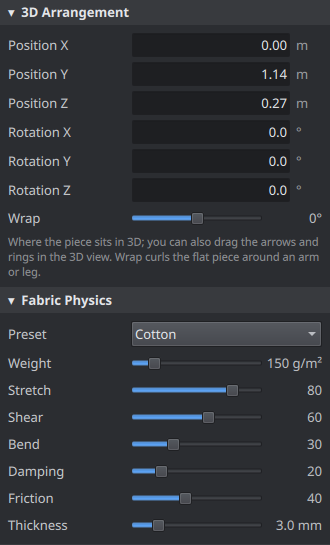
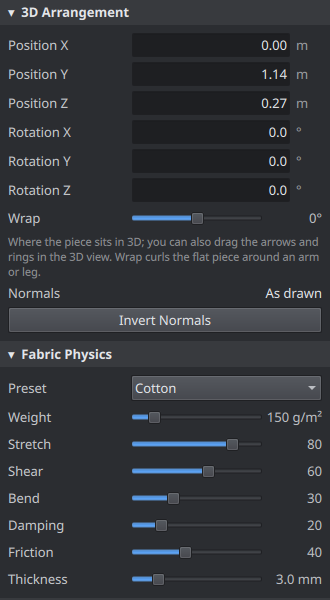
Added in ability to view Normals and Invert Normals if not pointing correctly.

Changed region(s): [[0.0, 0.0624, 1.0, 0.9982], [0.0303, 0.0, 0.3939, 0.0312], [0.8182, 0.9358, 0.8788, 0.9982]]

diff --git a/src/Seamstress.App/Viewport3D.qml b/src/Seamstress.App/Viewport3D.qml
@@ -22,6 +22,8 @@ Item {
     property bool pinchMode: false
     property bool showAvatar: true
     property bool showThreads: true
+    // Normal direction: each face's front (the side its normal points to) blue, its back red.
+    property bool showNormals: false
     property string avatarSource: ""
     property string threadSource: ""
 
@@ -98,6 +100,7 @@ Item {
         if (App.startupView.indexOf("wire") >= 0) wireframe = true
         if (App.startupView.indexOf("pinch") >= 0) pinchMode = true
         if (App.startupView.indexOf("ortho") >= 0) orthographic = true
+        if (App.startupView.indexOf("normals") >= 0) showNormals = true
         if (App.startupView.indexOf("ruler") >= 0) {
             // For documentation screenshots: across the shoulders of the mannequin.
             rulerA = Qt.vector3d(-0.19, 1.42, 0.02)
@@ -178,7 +181,9 @@ Item {
 
                 source: meshUrl
                 pickable: true
-                materials: PrincipledMaterial {
+                materials: root.showNormals ? [frontFaces] : [fabric]
+                PrincipledMaterial {
+                    id: fabric
                     baseColor: pieceItem.checker ? "#ffffff" : (pieceItem.tex !== "" ? "#ffffff" : pieceItem.tint)
                     baseColorMap: pieceItem.textured ? fabricTexture : null
                     roughness: pieceItem.rough
@@ -187,6 +192,25 @@ Item {
                     alphaMode: pieceItem.alpha < 0.999 ? PrincipledMaterial.Blend : PrincipledMaterial.Opaque
                     cullMode: Material.NoCulling
                     emissiveFactor: pieceItem.sel ? Qt.vector3d(0.16, 0.12, 0.02) : Qt.vector3d(0, 0, 0)
+                }
+                // Normal direction: this model draws only the front of each face, the one inside only the back.
+                // A little glow keeps the shape readable where the light falls on the other side.
+                PrincipledMaterial {
+                    id: frontFaces
+                    baseColor: "#3f78e0"
+                    roughness: 0.8
+                    cullMode: Material.BackFaceCulling
+                    emissiveFactor: pieceItem.sel ? Qt.vector3d(0.16, 0.28, 0.55) : Qt.vector3d(0.08, 0.14, 0.3)
+                }
+                Model {
+                    visible: root.showNormals
+                    source: pieceItem.meshUrl
+                    materials: PrincipledMaterial {
+                        baseColor: "#e04848"
+                        roughness: 0.8
+                        cullMode: Material.FrontFaceCulling
+                        emissiveFactor: pieceItem.sel ? Qt.vector3d(0.6, 0.16, 0.16) : Qt.vector3d(0.32, 0.08, 0.08)
+                    }
                 }
                 Texture {
                     id: fabricTexture
@@ -478,10 +502,21 @@ Item {
     }
 
     Label {
+        id: viewTitle
         anchors { left: parent.left; top: parent.top; margins: 8 }
         text: "3D Garment"
         font.bold: true
         opacity: 0.75
+    }
+    // Key for the normal direction colours.
+    RowLayout {
+        visible: root.showNormals
+        anchors { left: parent.left; top: viewTitle.bottom; leftMargin: 8; topMargin: 6 }
+        spacing: 6
+        Rectangle { implicitWidth: 12; implicitHeight: 12; radius: 2; color: "#3f78e0" }
+        Label { text: "Front (normal side)"; font.pixelSize: 11; opacity: 0.85 }
+        Rectangle { implicitWidth: 12; implicitHeight: 12; radius: 2; color: "#e04848"; Layout.leftMargin: 8 }
+        Label { text: "Back"; font.pixelSize: 11; opacity: 0.85 }
     }
 
     RowLayout {

diff --git a/src/Seamstress.App/Main.qml b/src/Seamstress.App/Main.qml
@@ -176,6 +176,8 @@ ApplicationWindow {
         "view.back": () => viewport.setView(180, -5),
         "view.checker": () => viewport.displayMode = viewport.displayMode === "checker" ? "shaded" : "checker",
         "view.wireframe": () => viewport.wireframe = !viewport.wireframe,
+        "view.normals": () => viewport.showNormals = !viewport.showNormals,
+        "edit.invertNormals": () => App.invertNormals(),
         "view.pinch": () => viewport.pinchMode = !viewport.pinchMode,
         "view.handles": () => viewport.showGizmo = !viewport.showGizmo,
         "view.avatar": () => viewport.showAvatar = !viewport.showAvatar,
@@ -316,6 +318,7 @@ ApplicationWindow {
                 MenuSeparator {}
                 KeyMenuItem { text: "3D: Checker (Texel Density)"; command: "view.checker"; checkable: true; checked: viewport.displayMode === "checker"; onTriggered: viewport.displayMode = checked ? "checker" : "shaded" }
                 KeyMenuItem { text: "3D: Wireframe (Topology)"; command: "view.wireframe"; checkable: true; checked: viewport.wireframe; onTriggered: viewport.wireframe = checked }
+                KeyMenuItem { text: "3D: Normal Direction"; command: "view.normals"; checkable: true; checked: viewport.showNormals; onTriggered: viewport.showNormals = checked }
                 KeyMenuItem { text: "3D: Pinch Cloth"; command: "view.pinch"; checkable: true; checked: viewport.pinchMode; onTriggered: viewport.pinchMode = checked }
                 KeyMenuItem { text: "3D: Show Handles"; command: "view.handles"; checkable: true; checked: viewport.showGizmo; onTriggered: viewport.showGizmo = checked }
                 Menu {

diff --git a/src/Seamstress.App/PropertiesPanel.qml b/src/Seamstress.App/PropertiesPanel.qml
@@ -275,6 +275,21 @@ Pane {
                     font.pixelSize: 11
                     text: "Where the piece sits in 3D; you can also drag the arrows and rings in the 3D view. Wrap curls the flat piece around an arm or leg."
                 }
+                InfoRow {
+                    readonly property int flipped: root.sel.piece ? root.sel.piece.flippedNormals : 0
+                    readonly property int count: root.sel.piece ? root.sel.piece.count : 0
+                    label: "Normals"
+                    value: flipped === 0 ? "As drawn" : flipped === count ? (count === 1 ? "Inverted" : "All inverted")
+                                                                         : flipped + " of " + count + " inverted"
+                }
+                Button {
+                    Layout.fillWidth: true
+                    text: "Invert Normals"
+                    onClicked: App.invertNormals()
+                    ToolTip.visible: hovered
+                    ToolTip.delay: 500
+                    ToolTip.text: "Turn the faces of the selected pieces to point the other way. Use View ▸ 3D: Normal Direction to see which way they face: blue is the front, red the back."
+                }
             }
 
             // ---- Fabric --------------------------------------------------------------

diff --git a/src/Seamstress.App/SmokeTest.qml b/src/Seamstress.App/SmokeTest.qml
@@ -189,6 +189,16 @@ QtObject {
         check("context menu opens", contextMenu.visible)
         contextMenu.close()
 
+        // Normals: shown in the 3D view, inverted from Properties as one undo step.
+        viewport.showNormals = true
+        check("normal direction shown", viewport.showNormals)
+        viewport.showNormals = false
+        check("normals start as drawn", selection().piece.flippedNormals === 0)
+        App.invertNormals()
+        check("invert normals", selection().piece.flippedNormals === selection().piece.count && App.undoText === "Undo Invert normals")
+        App.undo()
+        check("invert normals undone", selection().piece.flippedNormals === 0)
+
         // Send to MakeHuman suggests the garment's name and says where the asset would go (nothing is written here).
         check("send dialog suggests the garment name", App.activeGarmentName() !== "")
         const info = JSON.parse(App.makeHumanAssetInfo("Summer Skirt/v2"))

diff --git a/src/Seamstress.App/EditMenu.qml b/src/Seamstress.App/EditMenu.qml
@@ -15,6 +15,7 @@ Menu {
     KeyMenuItem { text: "Rotate 90° Left"; command: "edit.rotateLeft"; onTriggered: App.rotate(90) }
     KeyMenuItem { text: "Rotate 90° Right"; command: "edit.rotateRight"; onTriggered: App.rotate(-90) }
     KeyMenuItem { text: "Straighten Curved Edges"; command: "edit.straighten"; onTriggered: App.straightenEdges() }
+    KeyMenuItem { text: "Invert Normals"; command: "edit.invertNormals"; onTriggered: App.invertNormals() }
     MenuSeparator {}
     KeyMenuItem { text: "Group Selected Pieces"; command: "edit.group"; onTriggered: App.groupSelection() }
     KeyMenuItem { text: "Reverse Seam Direction"; command: "edit.reverseSeam"; onTriggered: App.reverseSeam() }

diff --git a/tests/Seamstress.Tests/ExportTests.cs b/tests/Seamstress.Tests/ExportTests.cs
@@ -197,6 +197,48 @@ public class ExportTests : IDisposable
     }
 
     [Fact]
+    public void InvertedNormalsFaceTheOtherWay()
+    {
+        var piece = _ws.Document.Garments[0].Pieces[0];
+        var mesh = _ws.MeshFor(_ws.Document.Garments[0]).Find(piece.Id)!;
+        var drape = piece.Drape;
+        var before = Scene(weld: false).Meshes[0];
+        var part = before.Parts.First(p => p.Name == piece.Name);
+
+        _ws.SelectPiece(piece.Id);
+        _ws.InvertNormals();
+        piece = _ws.Document.Garments[0].Pieces[0];
+        Assert.True(piece.FlipNormals);
+        Assert.Same(drape, piece.Drape);                                    // the draped shape is kept
+        Assert.Same(mesh, _ws.MeshFor(_ws.Document.Garments[0]).Find(piece.Id));   // the simulation mesh is untouched
+
+        // Every exported triangle and face of that piece is wound the other way; other pieces are unchanged.
+        var after = Scene(weld: false).Meshes[0];
+        var flipped = after.Parts.First(p => p.Name == piece.Name);
+        for (int t = 0; t < part.PositionIndices.Length; t += 3)
+        {
+            Assert.Equal(part.PositionIndices[t], flipped.PositionIndices[t]);
+            Assert.Equal(part.PositionIndices[t + 1], flipped.PositionIndices[t + 2]);
+            Assert.Equal(part.PositionIndices[t + 2], flipped.PositionIndices[t + 1]);
+        }
+        var lastFace = part.FacePositionIndices[^3..];
+        Assert.Equal(new[] { lastFace[0], lastFace[2], lastFace[1] }, flipped.FacePositionIndices[^3..]);
+        Assert.Equal(before.Parts[1].PositionIndices, after.Parts[1].PositionIndices);
+        // So the vertex normals of the piece point the opposite way.
+        int v = part.PositionIndices[0];
+        Assert.True(Vector3.Dot(before.Normals[v], after.Normals[v]) < -0.99f);
+
+        // Saved with the project, one undo step, and inverting again restores the original.
+        var reloaded = GarmentFile.Deserialize(GarmentFile.Serialize(_ws.Document));
+        Assert.True(reloaded.Garments[0].Pieces[0].FlipNormals);
+        Assert.False(reloaded.Garments[0].Pieces[1].FlipNormals);
+        Assert.Equal("Invert normals", _ws.History.UndoName);
+        _ws.History.Undo();
+        Assert.False(_ws.Document.Garments[0].Pieces[0].FlipNormals);
+        Assert.Equal(part.PositionIndices, Scene(weld: false).Meshes[0].Parts.First(p => p.Name == piece.Name).PositionIndices);
+    }
+
+    [Fact]
     public void MakeHumanAssetReproducesTheGarment()
     {
         var settings = new AppSettings();

diff --git a/src/Seamstress.Core/Geometry/GarmentMesh.cs b/src/Seamstress.Core/Geometry/GarmentMesh.cs
@@ -36,17 +36,38 @@ public sealed class PieceMesh
     public int FaceCount => Polygons?.Length ?? TriangleCount;
     public int QuadCount => Polygons?.Count(p => p.Length == 4) ?? 0;
 
-    /// <summary>Every face of the exported topology as its vertex indices, counter-clockwise.</summary>
-    public IEnumerable<int[]> Faces()
+    /// <summary>
+    /// Every face of the exported topology as its vertex indices: counter-clockwise, or clockwise when the piece's
+    /// normals are flipped.
+    /// </summary>
+    public IEnumerable<int[]> Faces(bool flipped = false)
     {
         if (Polygons != null)
         {
             foreach (var polygon in Polygons)
-                yield return polygon;
+                yield return flipped ? polygon.Reverse().ToArray() : polygon;
             yield break;
         }
         for (int t = 0; t < Triangles.Length; t += 3)
-            yield return new[] { Triangles[t], Triangles[t + 1], Triangles[t + 2] };
+            yield return flipped ? new[] { Triangles[t], Triangles[t + 2], Triangles[t + 1] } : new[] { Triangles[t], Triangles[t + 1], Triangles[t + 2] };
+    }
+
+    /// <summary>
+    /// The triangles as they are shown and exported. The simulation always uses <see cref="Triangles"/>; a piece
+    /// with flipped normals is drawn with each triangle wound the other way.
+    /// </summary>
+    public int[] ShownTriangles(bool flipped)
+    {
+        if (!flipped)
+            return Triangles;
+        var result = new int[Triangles.Length];
+        for (int t = 0; t < Triangles.Length; t += 3)
+        {
+            result[t] = Triangles[t];
+            result[t + 1] = Triangles[t + 2];
+            result[t + 2] = Triangles[t + 1];
+        }
+        return result;
     }
 }
 

diff --git a/src/Seamstress.App/ViewportSync.cs b/src/Seamstress.App/ViewportSync.cs
@@ -186,7 +186,7 @@ internal sealed class ViewportSync : IDisposable
             {
                 var piece = garment.FindPiece(mesh.Pieces[i].PieceId)!;
                 positions[i] = Mesher.CurrentPositions(piece, mesh.Pieces[i]);
-                normals[i] = Mesher.ComputeNormals(positions[i], mesh.Pieces[i].Triangles);
+                normals[i] = Mesher.ComputeNormals(positions[i], mesh.Pieces[i].ShownTriangles(piece.FlipNormals));
             }
             // Shade across closed seams as one surface; draw a thread for stitches that are still apart.
             foreach (var stitch in mesh.Stitches)
@@ -256,13 +256,14 @@ internal sealed class ViewportSync : IDisposable
                 hash.Add(piece.Uv.Rotation);
                 hash.Add(layout.UnitsPerCm);
                 hash.Add(layout.Min);
+                hash.Add(piece.FlipNormals);
                 bool usesDrape = piece.Drape != null && piece.DrapeKey == pieceMesh.Key;
                 int signature = hash.ToHashCode();
                 if (entry.Url.Length == 0 || entry.Key != pieceMesh.Key || entry.Hash != signature
                     || !ReferenceEquals(entry.Drape, usesDrape ? piece.Drape : null))
                 {
                     string file = NextFile("p" + piece.Id, entry.Files);
-                    QtMesh.WriteTriangles(file, positions[i], normals[i], layout.Map(piece, pieceMesh), pieceMesh.Triangles);
+                    QtMesh.WriteTriangles(file, positions[i], normals[i], layout.Map(piece, pieceMesh), pieceMesh.ShownTriangles(piece.FlipNormals));
                     entry.Url = ToUrl(file);
                     entry.Key = pieceMesh.Key;
                     entry.Hash = signature;

diff --git a/src/Seamstress.App/AppController.Json.cs b/src/Seamstress.App/AppController.Json.cs
@@ -113,6 +113,8 @@ public partial class AppController
             sb.Append(",\"posX\":").Append(N(piece.Placement.Position.X)).Append(",\"posY\":").Append(N(piece.Placement.Position.Y)).Append(",\"posZ\":").Append(N(piece.Placement.Position.Z));
             sb.Append(",\"rotX\":").Append(N(piece.Placement.Rotation.X)).Append(",\"rotY\":").Append(N(piece.Placement.Rotation.Y)).Append(",\"rotZ\":").Append(N(piece.Placement.Rotation.Z));
             sb.Append(",\"curvature\":").Append(N(piece.Placement.Curvature));
+            // How many of the selected pieces have their normals inverted.
+            sb.Append(",\"flippedNormals\":").Append(pieces.Count(p => p.FlipNormals)).Append(",\"count\":").Append(pieces.Count);
             sb.Append(",\"particleDistance\":").Append(N(piece.ParticleDistance ?? 0));
             sb.Append(",\"area\":").Append(N(pieces.Sum(Outline.Area)));
             sb.Append(",\"faces\":").Append(pieces.Sum(p => _workspace.MeshFor(doc.GarmentOfPiece(p.Id)!).Find(p.Id)?.FaceCount ?? 0));
@@ -260,5 +262,8 @@ public partial class AppController
             else if (doc.Garments.FirstOrDefault(g => g.Name == options.SelectPiece) is { } garment)
                 _workspace.SelectLayer(garment.Id);
         }
+        // For documentation screenshots: "--view invert" turns the selected pieces' normals the other way.
+        if (options.View.Contains("invert"))
+            _workspace.InvertNormals();
     }
 }

diff --git a/src/Seamstress.Core/IO/ExportScene.cs b/src/Seamstress.Core/IO/ExportScene.cs
@@ -153,18 +153,19 @@ public sealed class ExportScene
             var piece = garment.FindPiece(pieceMesh.PieceId)!;
             if (!piece.Visible && !options.IncludeHidden)
                 continue;
-            var positionIndices = new int[pieceMesh.Triangles.Length];
-            var uvIndices = new int[pieceMesh.Triangles.Length];
+            var triangles = pieceMesh.ShownTriangles(piece.FlipNormals);
+            var positionIndices = new int[triangles.Length];
+            var uvIndices = new int[triangles.Length];
             for (int k = 0; k < positionIndices.Length; k++)
             {
-                uvIndices[k] = offsets[i] + pieceMesh.Triangles[k];
+                uvIndices[k] = offsets[i] + triangles[k];
                 positionIndices[k] = remap[uvIndices[k]];
             }
             allTriangles.AddRange(positionIndices);
             var sizes = new List<int>();
             var facePositions = new List<int>();
             var faceUvs = new List<int>();
-            foreach (var face in pieceMesh.Faces())
+            foreach (var face in pieceMesh.Faces(piece.FlipNormals))
             {
                 sizes.Add(face.Length);
                 foreach (int v in face)

diff --git a/src/Seamstress.Core/KeyBindings.cs b/src/Seamstress.Core/KeyBindings.cs
@@ -27,6 +27,7 @@ public static class KeyBindings
         new("edit.rotateLeft", "Edit", "Rotate 90° Left", Array.Empty<string>()),
         new("edit.rotateRight", "Edit", "Rotate 90° Right", Array.Empty<string>()),
         new("edit.straighten", "Edit", "Straighten Curved Edges", Array.Empty<string>()),
+        new("edit.invertNormals", "Edit", "Invert Normals", Array.Empty<string>()),
         new("edit.group", "Edit", "Group Selected Pieces", new[] { "Ctrl+G" }),
         new("edit.reverseSeam", "Edit", "Reverse Seam Direction", Array.Empty<string>()),
 
@@ -54,6 +55,7 @@ public static class KeyBindings
         new("view.back", "View", "3D: Back", new[] { "Ctrl+1", "Ctrl+Num+1" }),
         new("view.checker", "View", "3D: Checker", Array.Empty<string>()),
         new("view.wireframe", "View", "3D: Wireframe", Array.Empty<string>()),
+        new("view.normals", "View", "3D: Normal Direction", Array.Empty<string>()),
         new("view.pinch", "View", "3D: Pinch Cloth", new[] { "G" }),
         new("view.handles", "View", "3D: Show Handles", Array.Empty<string>()),
         new("view.avatar", "View", "3D: Show Avatar", Array.Empty<string>()),

diff --git a/src/Seamstress.Core/IO/GarmentFile.cs b/src/Seamstress.Core/IO/GarmentFile.cs
@@ -172,6 +172,8 @@ public static class GarmentFile
             w.WriteNumber("particleDistance", distance);
         w.WritePropertyName("uv");
         w.WriteRawValue($"{{ \"offset\": {V(p.Uv.Offset)}, \"scale\": {N(p.Uv.Scale)}, \"rotation\": {N(p.Uv.Rotation)} }}");
+        if (p.FlipNormals)
+            w.WriteBoolean("flipNormals", true);
 
         if (p.Drape != null && p.DrapeKey != null)
         {
@@ -355,6 +357,7 @@ public static class GarmentFile
         piece.MaterialId = Str(p, "material");
         if (p.TryGetProperty("particleDistance", out var pd) && pd.ValueKind == JsonValueKind.Number)
             piece.ParticleDistance = Math.Clamp(pd.GetSingle(), 0.3f, 20f);
+        piece.FlipNormals = p.TryGetProperty("flipNormals", out var flip) && flip.ValueKind == JsonValueKind.True;
         if (p.TryGetProperty("uv", out var uv) && uv.ValueKind == JsonValueKind.Object)
         {
             piece.Uv.Offset = Vec2(uv, "offset", Vector2.Zero);
